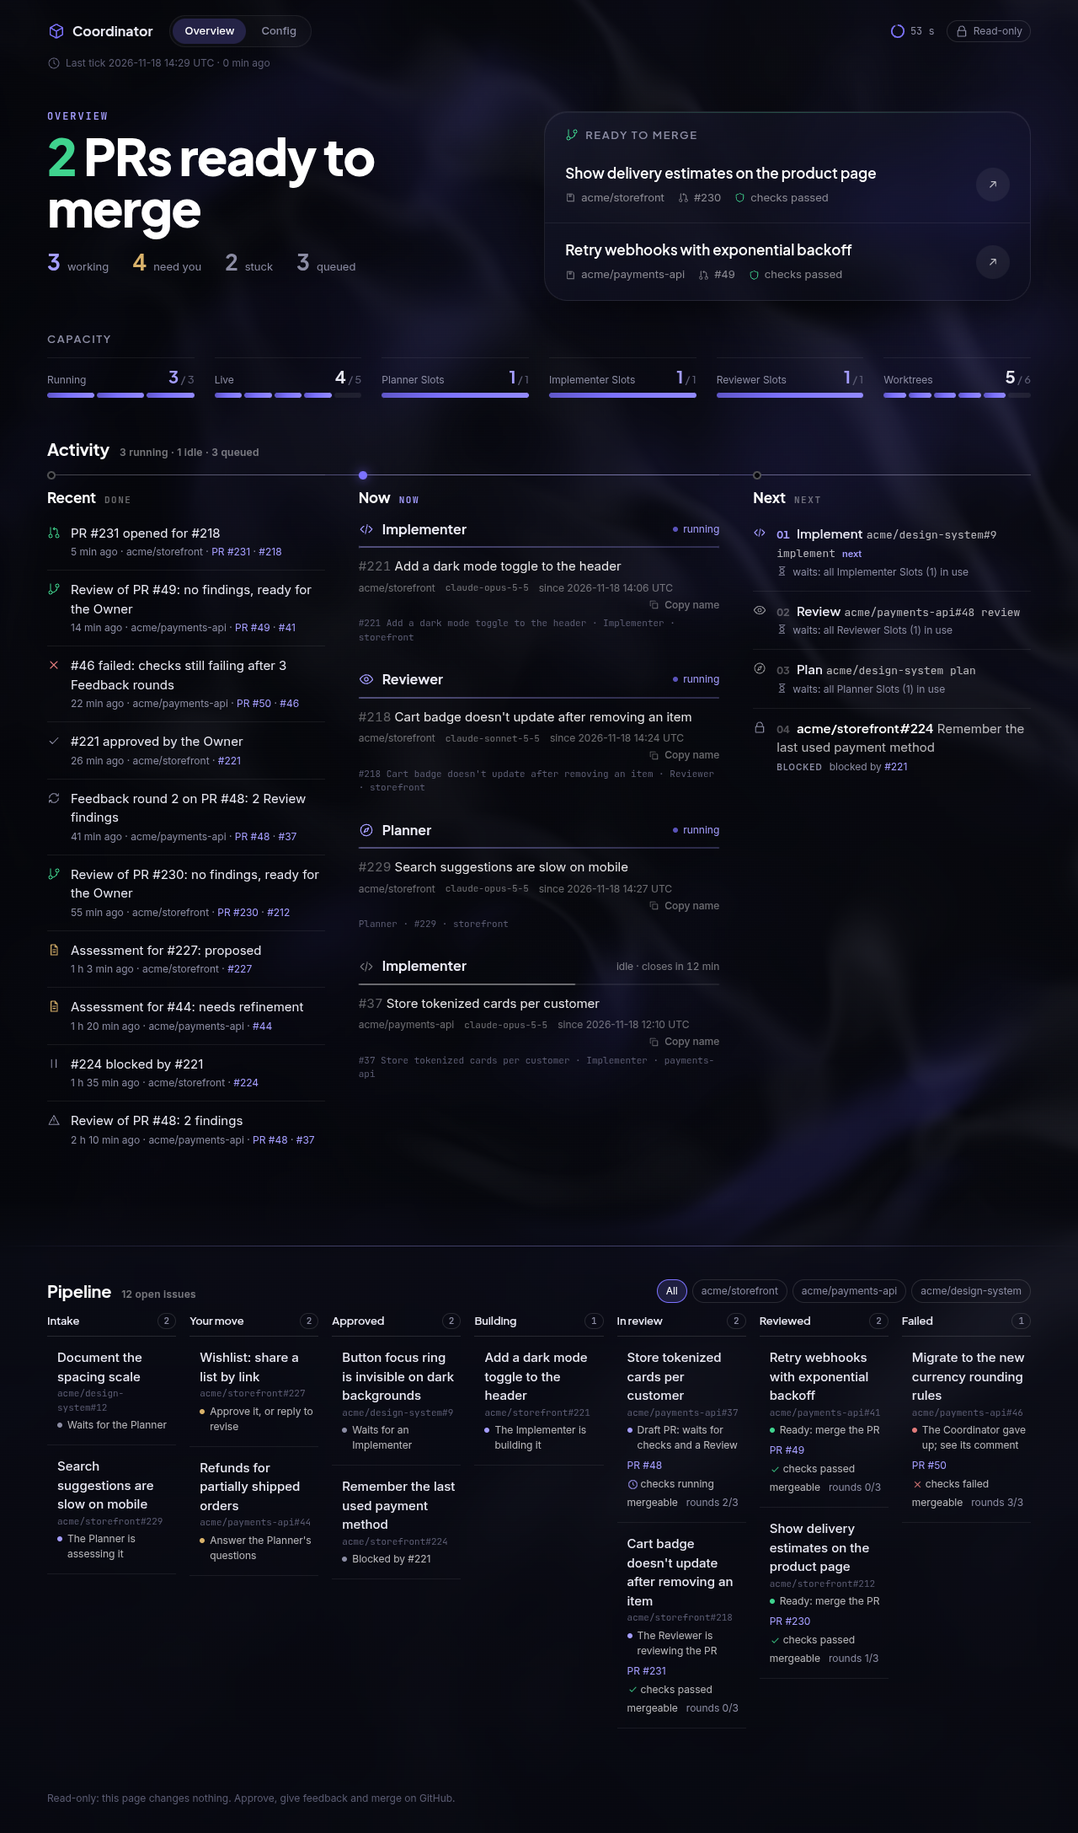
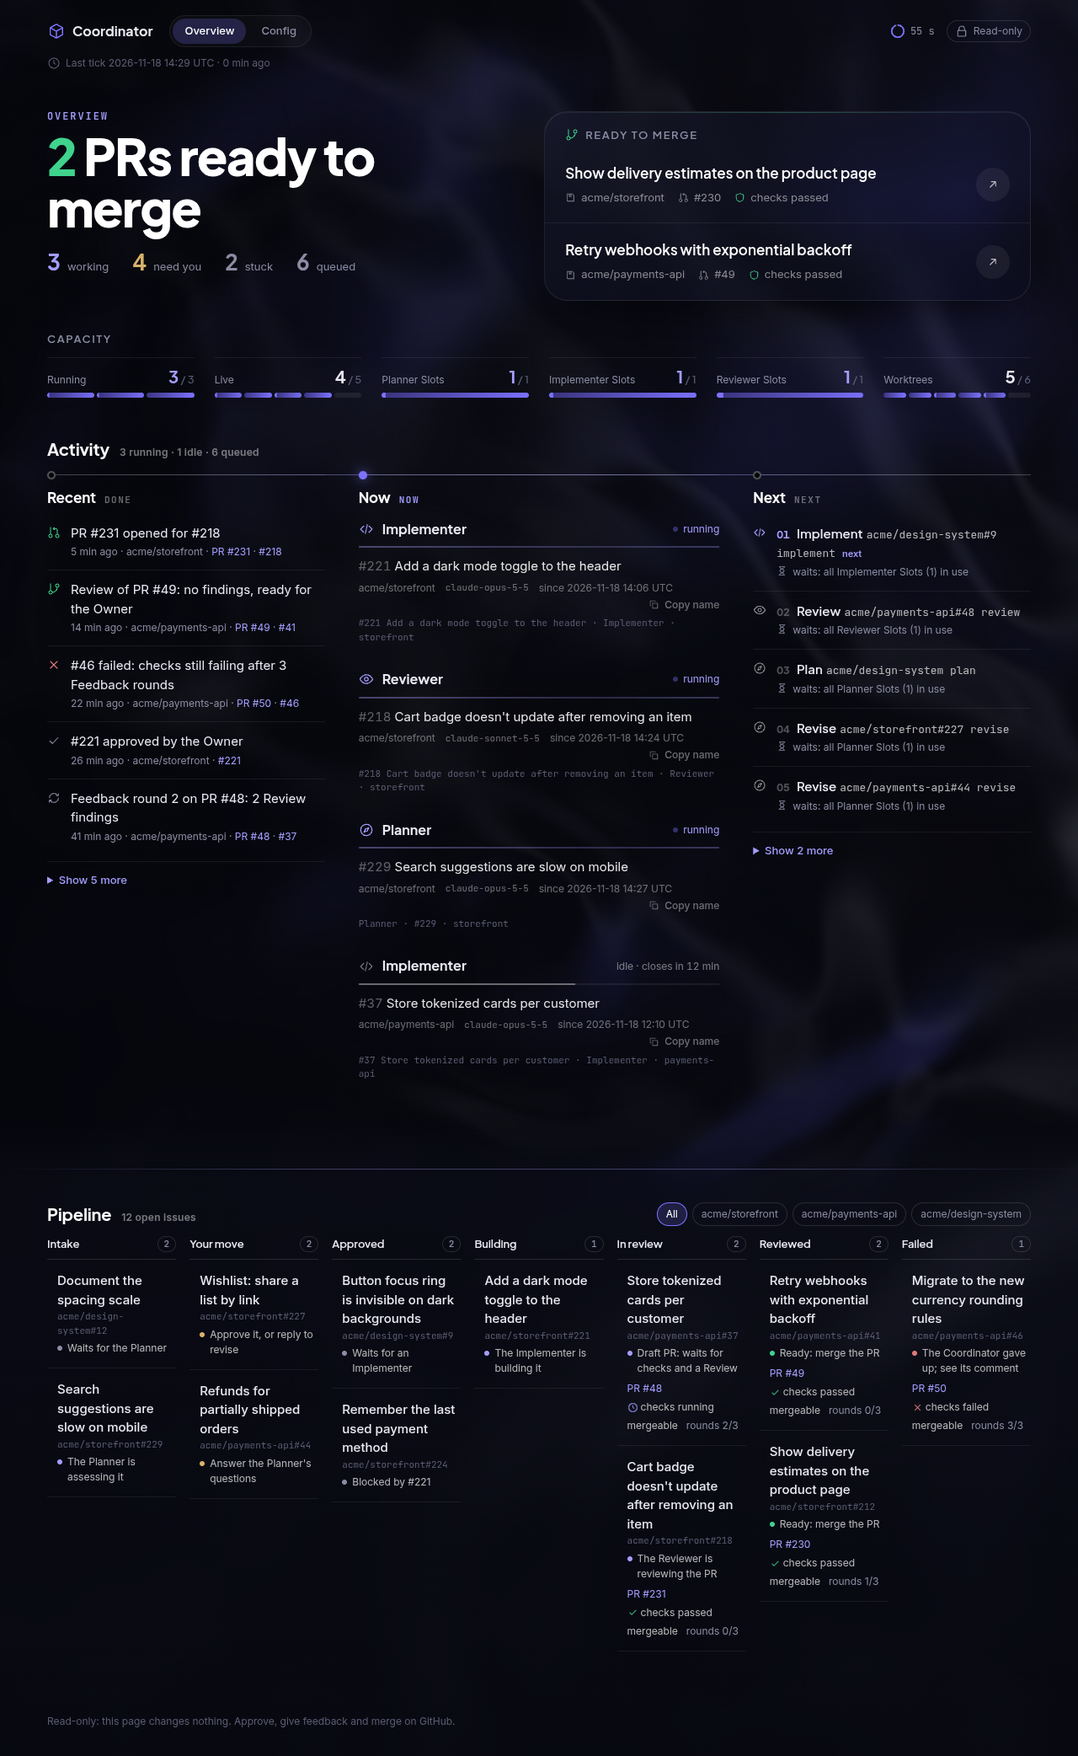
feat: Recent, Now and Next show 5 items at every width, the rest behind "Show N more" (#109, REQ-003-23)
One capped list for the three parts of Activity; the wide screen no longer forces Recent's
expander open. REQ-003-16 amended, REQ-003-23 added; mock data has more than 5 queued steps,
README screenshots regenerated.

Claude-Session: https://claude.ai/code/session_0137xE8EbHX8LfQvG4GfR9cH

diff --git a/test/dashboard-html.test.ts b/test/dashboard-html.test.ts
@@ -276,7 +276,7 @@ describe("dashboard html", () => {
     expect(rowClass(next)).toBe(rowClass(html.slice(html.indexOf('id="recent"'), html.indexOf('id="now"'))));
   });
 
-  test("REQ-003-16 Recent shows 5 Events on a phone and the other 10 behind an expander that needs no JavaScript", () => {
+  test("REQ-003-16 / REQ-003-23 Recent shows 5 of its 15 Events at every width and the other 10 behind an expander that needs no JavaScript", () => {
     const events = Array.from({ length: 15 }, (_, i) => ({
       at: new Date(Date.parse("2026-11-15T10:20:00.000Z") - i * 60_000).toISOString(),
       repo: "octo/app",
@@ -292,11 +292,81 @@ describe("dashboard html", () => {
     expect(shown).not.toContain("Event 6 happened");
     expect(more).toMatch(/<summary [^>]*>Show 10 more<\/summary>/);
     for (let n = 6; n <= 15; n++) expect(more).toContain(`Event ${n} happened`);
-    // From lg on there is room, so all 15 show and the expander's summary hides.
-    expect(more).toMatch(/^ class="[^"]*lg:details-content:\[content-visibility:visible\]/);
-    expect(more).toMatch(/<summary class="[^"]*lg:hidden/);
+    // Nothing forces the expander open or hides its summary on a wide screen.
+    expect(recent).not.toMatch(/lg:details-content|lg:hidden/);
+    expect(recent).not.toMatch(/<details[^>]* open/);
     // With 5 or fewer Events there is nothing to expand.
     expect(overview()).not.toContain("<details");
+  });
+
+  test("REQ-003-23 Next shows its first 5 steps and the rest, blocked issues last, behind an expander", () => {
+    const queue = Array.from({ length: 8 }, (_, i) => ({
+      work: {
+        key: `octo/app#${i + 10} implement`,
+        kind: "implement" as const,
+        role: "implementer" as const,
+        queuedAt: "t",
+      },
+      wait: { kind: "max-running" as const },
+    }));
+    const html = renderDashboard(dashboardView({ ...snap, queue }, config, NOW));
+    const next = html.slice(html.indexOf('id="next"'), html.indexOf('id="pipeline"'));
+    const [shown, more] = next.split("<details");
+    for (let n = 10; n <= 14; n++) expect(shown).toContain(`octo/app#${n} implement`);
+    expect(shown).toMatch(/data-step="next"/);
+    expect(shown).not.toContain("octo/app#15 implement");
+    // 3 more steps plus the blocked issue, in the same order and row style.
+    expect(more).toMatch(/<summary [^>]*>Show 4 more<\/summary>/);
+    const marks = order(more ?? "", ["octo/app#15", "octo/app#16", "octo/app#17", 'data-step="blocked"']);
+    expect(marks.every((m) => m >= 0)).toBe(true);
+    expect(marks).toEqual([...marks].sort((a, b) => a - b));
+    expect(more).not.toContain('data-step="next"');
+    // The header counts stay the totals.
+    expect(html).toContain("8 queued");
+  });
+
+  test("REQ-003-23 Now shows its first 5 sessions, running ones first, and the rest behind an expander", () => {
+    const base = snap.sessions[0];
+    if (!base) throw new Error("fixture has a session");
+    const sessions = Array.from({ length: 7 }, (_, i) => ({
+      ...base,
+      id: i + 1,
+      issues: [i + 20],
+      title: `Session ${i + 1} work`,
+      state: (i < 4 ? "running" : "idle") as "running" | "idle",
+    }));
+    const html = renderDashboard(dashboardView({ ...snap, sessions }, config, NOW));
+    const now = html.slice(html.indexOf('id="now"'), html.indexOf('id="next"'));
+    const [shown, more] = now.split("<details");
+    for (let n = 1; n <= 5; n++) expect(shown).toContain(`Session ${n} work`);
+    expect(shown).not.toContain("Session 6 work");
+    expect(more).toMatch(/<summary [^>]*>Show 2 more<\/summary>/);
+    for (const n of [6, 7]) expect(more).toContain(`Session ${n} work`);
+    // Same session style inside the expander as above it.
+    const listClass = (s: string) => s.match(/<ul class="([^"]*)"/)?.[1];
+    expect(listClass(more ?? "")).toBe(listClass(shown ?? ""));
+  });
+
+  test("REQ-003-23 a part with exactly 5 items has no expander", () => {
+    const queue = Array.from({ length: 4 }, (_, i) => ({
+      work: {
+        key: `octo/app#${i + 10} implement`,
+        kind: "implement" as const,
+        role: "implementer" as const,
+        queuedAt: "t",
+      },
+    }));
+    const events = Array.from({ length: 5 }, (_, i) => ({
+      at: new Date(Date.parse("2026-11-15T10:20:00.000Z") - i * 60_000).toISOString(),
+      repo: "octo/app",
+      kind: "approved" as const,
+      issues: [i + 1],
+      pr: null,
+      text: `Event ${i + 1} happened`,
+    }));
+    // 4 queued steps + 1 blocked issue = 5 in Next; 5 Events in Recent.
+    const html = renderDashboard(dashboardView({ ...snap, queue, events }, config, NOW));
+    expect(html).not.toContain("<details");
   });
 
   test("REQ-003-04 the first step is marked next, waiting steps say why, blocked issues are marked", () => {

diff --git a/src/dashboard/html.tsx b/src/dashboard/html.tsx
@@ -347,15 +347,36 @@ function Phase({
   );
 }
 
+/** How many items Recent, Now and Next each show before the expander, at every width (REQ-003-23). */
+const SHOWN = 5;
+
+/**
+ * REQ-003-23: the first five items of a part of Activity, the rest in a `<details>` that needs no
+ * script and shows them in place, in the same list and row style. Five or fewer: no expander.
+ */
+function Capped({ items, list }: { items: ReactNode[]; list: (items: ReactNode[]) => ReactNode }) {
+  const more = items.slice(SHOWN);
+  return (
+    <>
+      {list(items.slice(0, SHOWN))}
+      {more.length > 0 && (
+        <details className="mt-2 border-line border-t">
+          <summary className="cursor-pointer py-3 font-medium text-[13px] text-acc-hi">Show {more.length} more</summary>
+          {list(more)}
+        </details>
+      )}
+    </>
+  );
+}
+
 /** REQ-003-01: the open sessions, running ones first; idle ones say they wait, not that they work (#74). */
 const Now = ({ v }: { v: DashboardView }) => (
   <Phase id="now" title="Now" tag="now" current className="order-1 lg:order-none">
     {v.sessions.length ? (
-      <ul className="grid gap-x-10 gap-y-8 pt-2 sm:grid-cols-2 lg:grid-cols-1">
-        {v.sessions.map((s) => (
-          <Session key={s.name} s={s} />
-        ))}
-      </ul>
+      <Capped
+        items={v.sessions.map((s) => <Session key={s.name} s={s} />)}
+        list={(items) => <ul className="grid gap-x-10 gap-y-8 pt-2 sm:grid-cols-2 lg:grid-cols-1">{items}</ul>}
+      />
     ) : (
       <Empty>No agent sessions are open.</Empty>
     )}
@@ -422,43 +443,19 @@ const Event = ({ e }: { e: EventView }) => (
   </Row>
 );
 
-/** How many Events Recent shows on a phone before the expander (REQ-003-16). */
-const RECENT_ON_PHONE = 5;
-
-/**
- * REQ-003-16: the newest Events. On a phone the first five show and the rest sit in a `<details>`,
- * which needs no script; from lg on its content always shows and its summary hides.
- */
-function Recent({ v }: { v: DashboardView }) {
-  const more = v.recent.slice(RECENT_ON_PHONE);
-  return (
-    <Phase id="recent" title="Recent" tag="done" className="order-3 lg:order-none">
-      {v.recent.length ? (
-        <>
-          <ul>
-            {v.recent.slice(0, RECENT_ON_PHONE).map((e) => (
-              <Event key={`${e.datetime} ${e.text}`} e={e} />
-            ))}
-          </ul>
-          {more.length > 0 && (
-            <details className="border-line border-t lg:details-content:[content-visibility:visible] lg:details-content:block">
-              <summary className="cursor-pointer py-3 font-medium text-[13px] text-acc-hi lg:hidden">
-                Show {more.length} more
-              </summary>
-              <ul>
-                {more.map((e) => (
-                  <Event key={`${e.datetime} ${e.text}`} e={e} />
-                ))}
-              </ul>
-            </details>
-          )}
-        </>
-      ) : (
-        <Empty>Nothing has happened yet. Events show up here once the Coordinator acts on an issue.</Empty>
-      )}
-    </Phase>
-  );
-}
+/** REQ-003-16: the newest Events, five at first and the rest behind an expander (REQ-003-23). */
+const Recent = ({ v }: { v: DashboardView }) => (
+  <Phase id="recent" title="Recent" tag="done" className="order-3 lg:order-none">
+    {v.recent.length ? (
+      <Capped
+        items={v.recent.map((e) => <Event key={`${e.datetime} ${e.text}`} e={e} />)}
+        list={(items) => <ul>{items}</ul>}
+      />
+    ) : (
+      <Empty>Nothing has happened yet. Events show up here once the Coordinator acts on an issue.</Empty>
+    )}
+  </Phase>
+);
 
 /** REQ-003-04: what each kind of queued work does, as a step's name and icon. */
 const WORK: Record<WorkKind, { label: string; icon: IconName }> = {
@@ -479,7 +476,8 @@ const StepNumber = ({ n, first }: { n: number; first: boolean }) => (
 
 /**
  * REQ-003-04: the queue in the scheduler's order, the first step marked "next", each with why it
- * waits; blocked issues come last and are muted (REQ-003-17). A plain list in the row style of Recent.
+ * waits; blocked issues come last and are muted (REQ-003-17). A plain list in the row style of Recent,
+ * five steps at first (REQ-003-23).
  */
 function Next({ v }: { v: DashboardView }) {
   const steps = [
@@ -535,7 +533,7 @@ function Next({ v }: { v: DashboardView }) {
   ];
   return (
     <Phase id="next" title="Next" tag="next" className="order-2 lg:order-none">
-      {steps.length ? <ol>{steps}</ol> : <Empty>Nothing is queued.</Empty>}
+      {steps.length ? <Capped items={steps} list={(items) => <ol>{items}</ol>} /> : <Empty>Nothing is queued.</Empty>}
     </Phase>
   );
 }

diff --git a/test/fixtures/dashboard-mock.ts b/test/fixtures/dashboard-mock.ts
@@ -221,6 +221,18 @@ export const MOCK_SNAPSHOT: TickSnapshot = {
       work: { key: "acme/design-system plan", kind: "plan", role: "planner", queuedAt: at(1) },
       wait: { kind: "slot", role: "planner" },
     },
+    {
+      work: { key: "acme/storefront#227 revise", kind: "revise", role: "planner", queuedAt: at(1) },
+      wait: { kind: "slot", role: "planner" },
+    },
+    {
+      work: { key: "acme/payments-api#44 revise", kind: "revise", role: "planner", queuedAt: at(0.8) },
+      wait: { kind: "slot", role: "planner" },
+    },
+    {
+      work: { key: "acme/storefront plan", kind: "plan", role: "planner", queuedAt: at(0.6) },
+      wait: { kind: "slot", role: "planner" },
+    },
   ],
   events: [
     {

diff --git a/docs/specs/003-dashboard/spec.md b/docs/specs/003-dashboard/spec.md
@@ -138,7 +138,7 @@ The Owner wants to see at a glance, also on a phone, what the Coordinator is doi
 - **Given** recorded Events
 - **When** the dashboard is shown
 - **Then** the newest 15 appear newest first under "Recent" in Activity (REQ-003-20), before "Now"
-- **And** on a phone the newest 5 show and the other 10 sit behind a "Show 10 more" expander that needs no JavaScript; on a wide screen all 15 show
+- **And** the first 5 show and the other 10 sit behind an expander, at every width (REQ-003-23)
 - **And** each one shows an icon and a tone by kind (success, neutral, attention or failure, as in REQ-003-17), its time, and links to its issue or PR
 - **And** the `?repo=` filter (REQ-003-13) narrows it too
 - **And** with no Events yet it says so
@@ -182,6 +182,15 @@ The Owner wants to see at a glance, also on a phone, what the Coordinator is doi
 - **Then** a test fails and names `bun run screenshots` as the fix, and regenerating the screenshots makes it pass
 - **And** `bun test` needs no browser
 
+### REQ-003-23 Activity parts stay short
+
+- **Given** Recent, Now or Next holds more than 5 items
+- **When** the Overview is shown, at any width
+- **Then** the first 5 show in their usual order, and the rest sit behind a "Show N more" expander that needs no JavaScript
+- **And** opening it shows them in place, in the same order and row style
+- **And** a part with 5 or fewer items has no expander
+- **And** the counts in the Activity header stay the totals, not the visible items
+
 ## Out of scope
 
 - Write actions (approve, retry, merge, edit settings). Approval stays on GitHub, where the Owner's identity is checked.
@@ -194,9 +203,9 @@ The Owner wants to see at a glance, also on a phone, what the Coordinator is doi
 ## Assumptions
 
 - One Owner, one browser; no user accounts.
-- The page is server-rendered and has no client-side data fetching: it reloads every poll interval anyway and must work without JavaScript (#72).
+- The page is server-rendered and has no client-side data fetching: it reloads every poll interval anyway and must work without JavaScript (#72). An opened "Show N more" expander closes again on that reload (REQ-003-23); that is fine for a glance view.
 - A view of the last tick (every `pollIntervalSec`) is fresh enough.
-- 200 kept and 15 shown Events (5 at first on a phone) are enough to see what happened since the Owner last looked; no setting for either.
+- 200 kept and 15 shown Events (5 at first, REQ-003-23) are enough to see what happened since the Owner last looked; no setting for either.
 - The Owner reaches the server over Tailscale or an SSH tunnel, so the page needs no login of its own beyond the token.
 - The fonts (Plus Jakarta Sans, Inter, JetBrains Mono) are served from the Coordinator under the SIL Open Font License; other scripts than Latin fall back to system fonts.
 
@@ -219,10 +228,11 @@ The Owner wants to see at a glance, also on a phone, what the Coordinator is doi
 | REQ-003-13 | `dashboard view > REQ-003-13 a picked repository narrows the Pipeline …`; `dashboard html > REQ-003-13 the repository filter is a set of plain links …`; `dashboard server > REQ-003-13 ?repo= narrows the Pipeline`                                                                                                                                                                                                                                                                                                                                    | pass                                                                                                               |
 | REQ-003-14 | `dashboard html > REQ-003-14 the animated background shows, also for reduced motion …` (checks the stylesheet and script; the behaviour in a browser is manual)                                                                                                                                                                                                                                                                                                                                                                                         | pass (static); browser: open                                                                                       |
 | REQ-003-15 | `store > REQ-003-15 …` (2 tests: newest first across a restart, cap at 200); `reconcile loop > REQ-003-15 records one Event per action …` (11 tests: Assessment, approval incl. blocked and unblock, block, PR opened and none on a failed `createPull`, Review with and without findings, Feedback round counted or not, failure with reason, a failing GitHub call records nothing, a store error is only logged); `Planner pass > REQ-003-15 …`, `Implementer run > REQ-003-15 …`, `Reviewer run > REQ-003-15 …` (failures inside the syncs)         | pass                                                                                                               |
-| REQ-003-16 | `dashboard view > REQ-003-16 …` (5 tests: order, limit, tone, time and links; tone per kind; repo filter; empty state; escaping); `dashboard html > REQ-003-16 Recent comes before Now in Activity …`, `… REQ-003-16 Recent shows 5 Events on a phone and the other 10 behind an expander …`, `… the Overview shows its sections in order`; `reconcile loop > REQ-003-16 the snapshot carries the recorded Events …`; desktop and phone screenshots on the PR                                                                                           | pass                                                                                                               |
+| REQ-003-16 | `dashboard view > REQ-003-16 …` (5 tests: order, limit, tone, time and links; tone per kind; repo filter; empty state; escaping); `dashboard html > REQ-003-16 Recent comes before Now in Activity …`, `… REQ-003-16 / REQ-003-23 Recent shows 5 of its 15 Events at every width …`, `… the Overview shows its sections in order`; `reconcile loop > REQ-003-16 the snapshot carries the recorded Events …`; desktop and phone screenshots on the PR                                                                                                    | pass                                                                                                               |
 | REQ-003-17 | `dashboard view > REQ-003-02 / REQ-003-17 says in words what is happening …` (tone per Pipeline status), `… REQ-003-16 / REQ-003-17 gives each kind of Event a tone …`; `dashboard html > REQ-003-17 red marks only failures, the attention tone only the Owner's move, and status text stays neutral`; contrast and the look: screenshots on the PR (#102)                                                                                                                                                                                             | pass                                                                                                               |
 | REQ-003-19 | `dashboard html > REQ-003-19 the stylesheet is built from its Tailwind source and has a rule for every class the pages use`; every other `dashboard html` / `dashboard view` / `dashboard server` test renders the React components                                                                                                                                                                                                                                                                                                                     | pass                                                                                                               |
 | REQ-003-20 | `dashboard html > REQ-003-20 Activity: one header with the counts, Recent, Now and Next as one timeline, stacked Now, Next, Recent on a phone`, `… REQ-003-11 / REQ-003-12 / REQ-003-20 / REQ-003-02 the Overview shows its sections in order` (Activity holds the three parts, the band only the Pipeline and footer); no horizontal scroll at 360px measured in Chrome, desktop and phone screenshots on the PR (#104)                                                                                                                                | pass                                                                                                               |
 | REQ-003-21 | `dashboard screenshots > REQ-003-21 the README shows every screenshot, and each is a committed PNG`, `… REQ-003-21 the pages are rendered from made-up data only …`; the images themselves: looked at after `bun run screenshots`, attached to the PR (#77)                                                                                                                                                                                                                                                                                             | pass                                                                                                               |
 | REQ-003-22 | `dashboard screenshots > REQ-003-22 the fingerprint is stable for the same input and changes with the HTML or an asset`, `… REQ-003-22 the committed screenshots were made from the current dashboard …` (seen failing after a change to `styles.css` and to `html.tsx`, passing after `bun run screenshots`)                                                                                                                                                                                                                                           | pass                                                                                                               |
+| REQ-003-23 | `dashboard html > REQ-003-16 / REQ-003-23 Recent shows 5 of its 15 Events at every width …`, `… REQ-003-23 Next shows its first 5 steps …`, `… REQ-003-23 Now shows its first 5 sessions …`, `… REQ-003-23 a part with exactly 5 items has no expander` (each seen failing first); desktop and phone screenshots and no horizontal scroll at 360px on the PR (#109)                                                                                                                                                                                     | pass                                                                                                               |
 | Acceptance | #72: desktop, phone and Config screenshots from fixture data before and after the React migration look the same; manual: open it on a phone over Tailscale and on desktop, compare with the mockup in #41, screenshots on the PR; without a `dashboard` block, an SSH tunnel to `127.0.0.1:8080` loads the page                                                                                                                                                                                                                                         | #87: desktop and phone screenshots from fixture data match the mockup; on a real phone and the hover effects: open |

diff --git a/docs/specs/003-dashboard/plan.md b/docs/specs/003-dashboard/plan.md
@@ -71,3 +71,9 @@ Approach: `scripts/dashboard-screenshots.ts` renders both pages from `test/fixtu
 - [x] Mock data and the script, `bun run screenshots` (REQ-003-21)
 - [x] Fingerprint and the stale check in `bun test` (REQ-003-22)
 - [x] README, AGENTS.md
+
+### Activity parts stay short (#109)
+
+- [x] Spec: REQ-003-16 amended; REQ-003-23 added
+- [x] Markup: one capped list for Recent, Now and Next, 5 items at every width, the rest behind a `<details>` (REQ-003-23)
+- [x] Mock data with more than 5 queued steps, screenshots regenerated (REQ-003-21)
